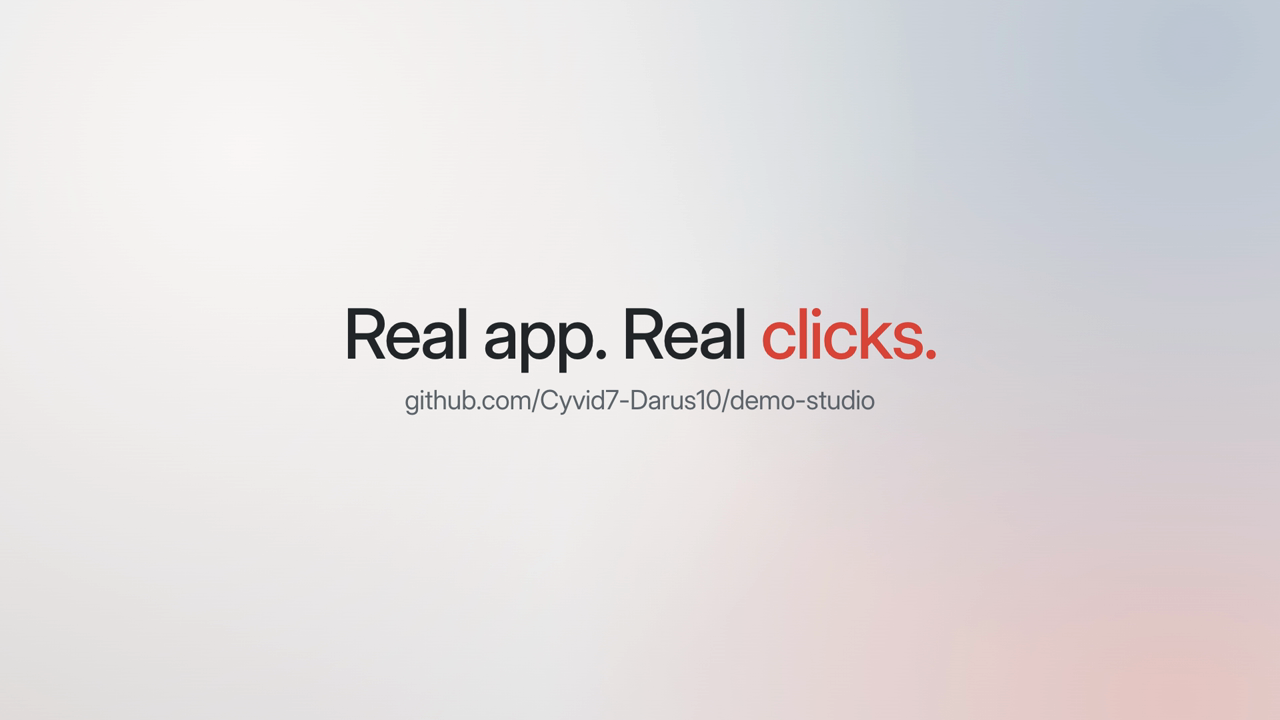
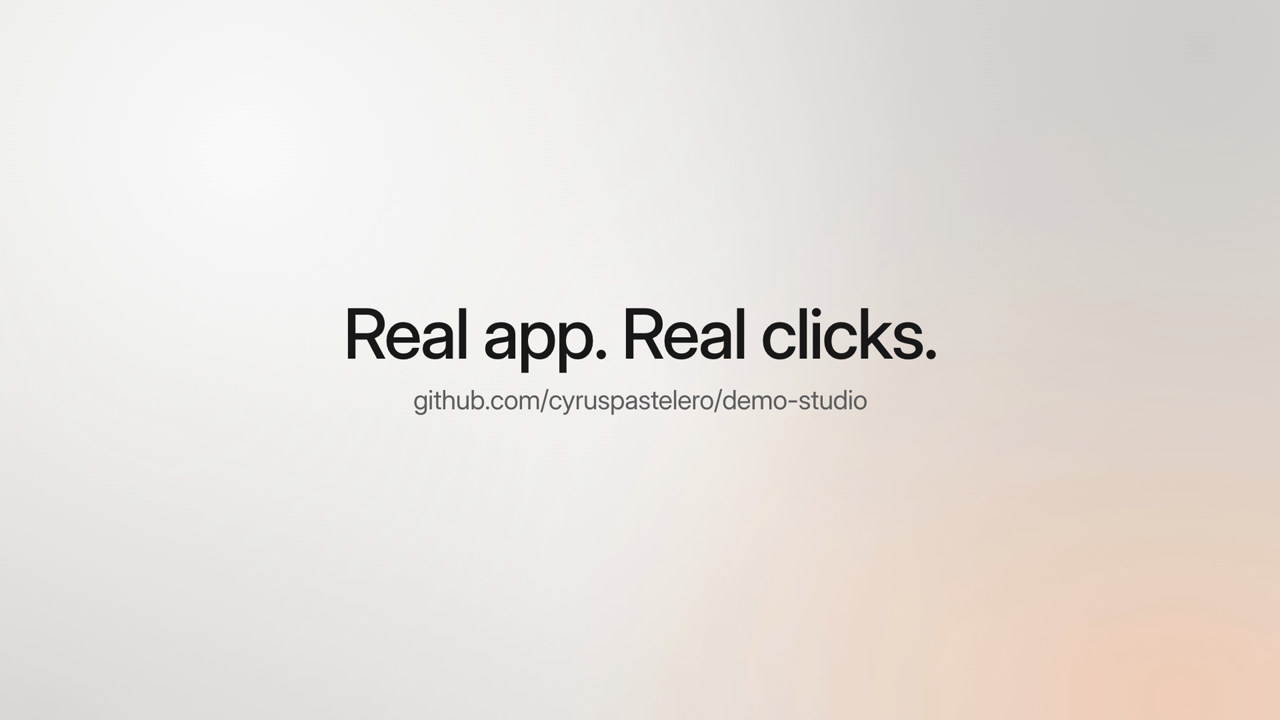
feat(looks): one-colour titles and an ember palette for the built-in looks
The engine coloured a card's accent word even when a look set accent_word false;
it now honours the flag. The built-in looks turn it off, house moves to warm greys
with an ember glow and sweep, midnight to graphite with an ember glow, paper and
mono get quieter titles, and all previews are re-rendered. The homepage intro keeps
a gap above its section list on short windows, and the link preview image matches
the new homepage.

Changed region(s): [[0.3125, 0.5194, 0.6875, 0.5806], [0.5938, 0.4278, 0.7188, 0.5194]]

diff --git a/site/index.html b/site/index.html
@@ -93,7 +93,8 @@ body[data-scene="7"] { --glow-x: 50%; --glow: 0.48; --haze: #625a54; }
 
 /* Layout: sticky intro, ruler, scrolling scenes */
 .page { display: grid; grid-template-columns: var(--aside) 20px minmax(0, 1fr); }
-.intro { position: sticky; top: 0; height: 100vh; display: flex; flex-direction: column; justify-content: space-between; padding: 64px 40px 40px; }
+.intro { position: sticky; top: 0; height: 100vh; display: flex; flex-direction: column; justify-content: space-between; gap: 48px; padding: 64px 40px 40px; overflow-y: auto; scrollbar-width: none; }
+.intro::-webkit-scrollbar { display: none; }
 .ruler { position: sticky; top: 0; height: 100vh;
   background: repeating-linear-gradient(180deg, rgba(255, 255, 255, 0.22) 0 1px, transparent 1px 26px) 4px 0 / 8px 100% no-repeat;
   border-left: 1px solid var(--rule); }
@@ -177,6 +178,15 @@ footer { position: relative; overflow: hidden; container-type: inline-size; marg
 @media (min-width: 1100px) {
   html { scroll-snap-type: y proximity; }
   .scene { scroll-snap-align: start; }
+}
+/* Short windows: tighten the intro so the headline, button and list all fit */
+@media (min-width: 1100px) and (max-height: 860px) {
+  .intro { padding: 40px 40px 28px; gap: 32px; }
+  h1 { font-size: 38px; }
+  .points { margin: 20px 0; gap: 8px; font-size: 14px; }
+  .toc h2 { margin-bottom: 8px; font-size: 16px; }
+  .toc a { padding: 5px 10px; font-size: 14px; }
+  .toc a[aria-current="true"]::before { top: 6px; bottom: 6px; }
 }
 @media (max-width: 1099px) {
   .page { display: block; }
@@ -272,15 +282,15 @@ footer { position: relative; overflow: hidden; container-type: inline-size; marg
       </header>
       <div class="viewer">
         <div class="switch" role="tablist" aria-label="Built-in looks">
-          <button type="button" role="tab" id="look-house" aria-controls="look-stage" aria-selected="true" data-src="img/looks/house-stage.png" data-alt="The todo sample in the House look" data-text="A floating window on soft pastels. The default.">House</button>
-          <button type="button" role="tab" id="look-midnight" aria-controls="look-stage" aria-selected="false" data-src="img/looks/midnight-stage.png" data-alt="The todo sample in the Midnight look" data-text="Dark and cinematic, for developer tools.">Midnight</button>
-          <button type="button" role="tab" id="look-paper" aria-controls="look-stage" aria-selected="false" data-src="img/looks/paper-stage.png" data-alt="The todo sample in the Paper look" data-text="Warm and editorial, with square corners.">Paper</button>
+          <button type="button" role="tab" id="look-house" aria-controls="look-stage" aria-selected="true" data-src="img/looks/house-stage.png" data-alt="The todo sample in the House look" data-text="A floating window on soft warm greys. The default.">House</button>
+          <button type="button" role="tab" id="look-midnight" aria-controls="look-stage" aria-selected="false" data-src="img/looks/midnight-stage.png" data-alt="The todo sample in the Midnight look" data-text="Graphite with an ember glow. Cinematic, for developer tools.">Midnight</button>
+          <button type="button" role="tab" id="look-paper" aria-controls="look-stage" aria-selected="false" data-src="img/looks/paper-stage.png" data-alt="The todo sample in the Paper look" data-text="Soft paper and square corners. Calm and editorial.">Paper</button>
           <button type="button" role="tab" id="look-mono" aria-controls="look-stage" aria-selected="false" data-src="img/looks/mono-stage.png" data-alt="The todo sample in the Mono look" data-text="Plain greys, so your product brings the colour.">Mono</button>
         </div>
         <figure class="frame stage" id="look-stage" role="tabpanel" aria-labelledby="look-house">
           <img src="img/looks/house-stage.png" alt="The todo sample in the House look" width="1280" height="720">
         </figure>
-        <p class="look-text" aria-live="polite">A floating window on soft pastels. The default.</p>
+        <p class="look-text" aria-live="polite">A floating window on soft warm greys. The default.</p>
       </div>
     </section>
 

diff --git a/scripts/keynote/spec.py b/scripts/keynote/spec.py
@@ -103,8 +103,8 @@ TAGLINE = {"size": 40, "weight": 400, "tracking": -0.5}        # T6
 TITLE_FONT = None                                              # T1: None = brand.font
 TITLE_WEIGHT = 500                                             # T2, T4, T5
 TITLE_REVEAL = "word-blur"                                     # T10: word-blur | fade | none
-ACCENT_WORD = True                                             # T9: one accent word per title
-INK, SECONDARY, TERTIARY, ACCENT = "#24272B", "#5F656D", "#6B7178", "#D9463B"  # T8
+ACCENT_WORD = False                                            # T9: titles stay one colour unless a look turns it on
+INK, SECONDARY, TERTIARY, ACCENT = "#1A1A1A", "#5E5E5E", "#6E6E6E", "#E8622A"  # T8
 WORD_SECONDS, WORD_BLUR, WORD_SHIFT = 0.50, 16, 26             # T10
 TITLE_STAGGER, SUBTITLE_STAGGER = 0.13, 0.05                   # T10
 SETTLE_SECONDS, SETTLE_EARLIEST, SUBTITLE_AFTER_SETTLE = 0.60, 1.0, 0.20  # T11, O2
@@ -115,13 +115,13 @@ CUT_STYLE = "inside-window"                                    # W7: clips cut i
 SHOT_MAX = 8.0                                                 # P2: longest uninterrupted window shot
 
 # 2.2 Background: base fill plus five radial fields (colour at the centre, transparent at 68%).
-BG_BASE = "#E3E3E4"                                            # B1
+BG_BASE = "#E4E3E1"                                            # B1
 BG_FIELDS = (                                                  # B2: colour, radius, x%, y%
-    ("#FAF9F7", 1500, 16, 20),
-    ("#BCC6D3F2", 1400, 92, 8),
-    ("#E6C4C2F2", 1400, 95, 100),
-    ("#DEDAD9", 1200, 5, 98),
-    ("#F1EFEDD9", 1100, 50, 50),
+    ("#FBFBFA", 1500, 16, 20),
+    ("#CFCDCAF2", 1400, 92, 8),
+    ("#F3CDB4E6", 1400, 95, 100),
+    ("#D8D6D3", 1200, 5, 98),
+    ("#F3F2F0D9", 1100, 50, 50),
 )
 BG_FADE_AT = 0.68
 # B4: each field drifts on a sine, amplitude 2 to 4% of the frame, 0.03 to 0.08 rad/s.
@@ -131,8 +131,8 @@ BG_KEYFRAME_SECONDS = 1.0       # rendered once a second, blended to 30 fps (mot
 # 2.10 End card and outro
 END_LOGO_WIDTH, END_LOGO_TOP = 128, 330                        # X1
 END_REVEAL_LEAD = 0.10                                         # X1, a word shows before it is spoken
-SWEEP_FROM, SWEEP_TO, SWEEP_SKEW, SWEEP_SECONDS = "#EF4849", "#F68C41", -4, 0.80  # X2
-DARK_FIELD = "#1B1D21"                                         # X2
+SWEEP_FROM, SWEEP_TO, SWEEP_SKEW, SWEEP_SECONDS = "#FF7A2E", "#FFB48A", -4, 0.80  # X2
+DARK_FIELD = "#121212"                                         # X2
 OUTRO_SECONDS = 5.0                                            # X3: sweep + lockup + >= 3 s hold
 LOCKUP_SECONDS = 0.70
 SILENT_TAIL = 3.0                                              # X3, A6

diff --git a/tests/test_keynote.py b/tests/test_keynote.py
@@ -210,7 +210,13 @@ class Pills(unittest.TestCase):
 class Titles(unittest.TestCase):
     CARD = Card(0, "card-intro", "hero", "Meet the team today", "Who builds it.", "team", "", False, 0, 90, 0, "")
 
+    def with_accent_word(self, on: bool) -> None:
+        saved = spec.ACCENT_WORD
+        spec.ACCENT_WORD = on
+        self.addCleanup(setattr, spec, "ACCENT_WORD", saved)
+
     def test_words_reveal_one_by_one_with_one_accent(self):
+        self.with_accent_word(True)
         state = title_card_state(self.CARD, 0.13, 3.0, 0.4)
         opacities = [w[2] for w in state["title"]["words"]]
         self.assertGreater(opacities[0], 0)
@@ -219,6 +225,11 @@ class Titles(unittest.TestCase):
         self.assertEqual(roles.count("accent"), 1)
         self.assertEqual(roles[2], "accent")
         self.assertEqual(state["title"]["words"][1][3], spec.WORD_BLUR)
+
+    def test_a_look_without_accent_words_draws_every_word_in_ink(self):
+        self.with_accent_word(False)
+        state = title_card_state(self.CARD, 2.0, 3.0, 0.4)
+        self.assertEqual({w[1] for w in state["title"]["words"]}, {"ink"})
 
     def test_hero_settles_to_0_52_and_the_subtitle_follows(self):
         before = title_card_state(self.CARD, 0.9, 3.0, 0.4)
@@ -333,7 +344,7 @@ class Background(unittest.TestCase):
 
     def test_brand_defaults_and_bad_colours(self):
         brand = load_brand(None)
-        self.assertEqual((brand.font, brand.accent, brand.base), ("inter", "#D9463B", "#E3E3E4"))
+        self.assertEqual((brand.font, brand.accent, brand.base), ("inter", "#E8622A", "#E4E3E1"))
         with self.assertRaises(PlanError) as caught:
             load_brand({"accent": "red; background:url(x)"})
         self.assertIn("brand.accent", str(caught.exception))
@@ -441,7 +452,10 @@ class Plans(unittest.TestCase):
         long_pill[0].pop("accent")
         warnings = "\n".join(self.plan(long_pill).warnings)
         self.assertIn("(C8)", warnings)
-        self.assertIn("(T9)", warnings)
+        self.assertNotIn("(T9)", warnings)  # the built-in looks draw titles in one colour
+        saved, spec.ACCENT_WORD = spec.ACCENT_WORD, True
+        self.addCleanup(setattr, spec, "ACCENT_WORD", saved)
+        self.assertIn("(T9)", "\n".join(self.plan(long_pill).warnings))
 
     def test_highlight_without_at_never_pairs_with_another_scenes_zoom(self):
         other = json.loads(json.dumps(self.SEQUENCE))

diff --git a/scripts/keynote/overlay.py b/scripts/keynote/overlay.py
@@ -31,7 +31,7 @@ def word_state(text: str, role: str, t: float, start: float, seconds: float, blu
 
 
 def words_of(text: str, accent: str, base_role: str) -> list[tuple[str, str]]:
-    marked = accent_index(text, accent) if accent else -1
+    marked = accent_index(text, accent) if accent and spec.ACCENT_WORD else -1  # T9: only when the look asks
     return [(w, "accent" if i == marked else base_role) for i, w in enumerate(text.split())]
 
 

diff --git a/docs/quality-bar.md b/docs/quality-bar.md
@@ -8,7 +8,7 @@ All sizes are px in a 1920x1080 frame. All times are seconds. "Ease-out cubic" m
 
 ## 1. The bar in one paragraph
 
-A finished cut opens directly on a title, with no black frame. It sits on a soft, slowly drifting, multi-colour pastel background. The product appears in one floating rounded window that is cropped tight to the UI that matters, so app text reads at about 20 px cap height. That window rises in from below frame. It stays put while clips cut inside it, and the whole window (not just its contents) eases up to 1.15x to point at something, then eases back. An outline in the product's own accent colour marks the exact UI element being talked about. Short pill callouts sit centred under the window: a person (avatar + "Name, role") or a statement in the product's accent colour. All type is one grotesk (Inter) at medium weight with tight tracking, and words blur in one by one. Narration runs under about 60% of the runtime, over a music bed 12 to 14 dB below it. The cut ends on a timed end card, a brand-gradient sweep, and a logo outro on dark.
+A finished cut opens directly on a title, with no black frame. It sits on a soft, slowly drifting background of warm greys with a faint ember glow. The product appears in one floating rounded window that is cropped tight to the UI that matters, so app text reads at about 20 px cap height. That window rises in from below frame. It stays put while clips cut inside it, and the whole window (not just its contents) eases up to 1.15x to point at something, then eases back. An outline in the product's own accent colour marks the exact UI element being talked about. Short pill callouts sit centred under the window: a person (avatar + "Name, role") or a statement in the product's accent colour. All type is one grotesk (Inter) at medium weight with tight tracking, in one colour, and words blur in one by one. Narration runs under about 60% of the runtime, over a music bed 12 to 14 dB below it. The cut ends on a timed end card, a brand-gradient sweep, and a logo outro on dark.
 
 ---
 
@@ -99,8 +99,8 @@ A finished cut opens directly on a title, with no black frame. It sits on a soft
 | T5 | End-card title | 500, 104 px, −3 px | "A" cap 76 px |
 | T6 | Subtitle / tagline | 400, 42 px (−0.6 px) or 40 px (−0.5 px) | "A" cap 31 px |
 | T7 | Person name / role (cast card) | 500 46 px −1 px / 400 30 px | caps 36 / 23 px |
-| T8 | Colours | Ink `#24272B` (measured `#202124`), secondary `#5F656D` (measured `#6A6C6D`), tertiary `#6B7178`, accent `#D9463B` (measured `#DC4334`) | |
-| T9 | Accent rule | Exactly **one** accent word per title or subtitle: the key noun ("Meet the **team**", "Who is on the **team?**"). Never whole lines, never two colours. | |
+| T8 | Colours | Ink `#1A1A1A`, secondary `#5E5E5E`, tertiary `#6E6E6E`, accent `#E8622A` (pills and boxes when the product sets no colour) | |
+| T9 | Accent rule | Titles are one colour in the built-in looks (`title.accent_word: false`); a card's `accent` is then ignored. A look that turns it on gets exactly **one** accent word per title or subtitle: the key noun ("Meet the **team**"). Never whole lines, never two colours. | |
 | T10 | Word reveal | Per word, 0.50 s ease-out cubic: opacity 0→1, blur 16→0 px, translateX +26→0. Stagger 0.13 s (titles), 0.05 s (subtitles). | |
 | T11 | Settle | 0.60 s ease-in-out cubic after the title lands (scale 1→0.52, up 70 px). The subtitle starts 0.20 s after the settle begins. | |
 | T12 | Card exit | 0.40 s ease-in-out cubic: opacity→0 and translateY −50 to −70 px, with blur | |
@@ -119,8 +119,8 @@ A finished cut opens directly on a title, with no black frame. It sits on a soft
 | # | Property | Bar |
 |---|---|---|
 | O1 | First frame | No black or blank frame. The hero title is already blurring in at frame 0 (fully in by 0.5 s). |
-| O2 | Opening card | Hero 132 px holds until about 1.0 s, settles (T11), then subtitle words reveal with one accent word, hold until about 3.3 s, and exit 0.4 s. Card length about 3.4 s. |
-| O3 | Cast card (when people appear) | Heading 72 px at top=250 with one accent word. Two 230 px circular avatars at x = 960 ± 280, top 410, shadow `0 30px 70px rgba(45,40,60,0.16), 0 8px 20px rgba(45,40,60,0.08)`. Avatars reveal at +0.4 / +0.6 s (scale 0.88→1, blur 12→0); names (46 px) and roles (30 px) follow 0.2 s later. About 2.6 s, after which the window rises over it (W6). |
+| O2 | Opening card | Hero 132 px holds until about 1.0 s, settles (T11), then subtitle words reveal, hold until about 3.3 s, and exit 0.4 s. Card length about 3.4 s. |
+| O3 | Cast card (when people appear) | Heading 72 px at top=250. Two 230 px circular avatars at x = 960 ± 280, top 410, shadow `0 30px 70px rgba(45,40,60,0.16), 0 8px 20px rgba(45,40,60,0.08)`. Avatars reveal at +0.4 / +0.6 s (scale 0.88→1, blur 12→0); names (46 px) and roles (30 px) follow 0.2 s later. About 2.6 s, after which the window rises over it (W6). |
 | O4 | First UI | ≤ 6.0 s into the cut |
 | O5 | Section card | A mid-cut question title ("Who is on the team?" form), 2.2 to 2.6 s, same reveal and exit |
 
@@ -129,7 +129,7 @@ A finished cut opens directly on a title, with no black frame. It sits on a soft
 | # | Property | Bar |
 |---|---|---|
 | X1 | End card | Brand mark about 128 px wide at top=330. Title 104 px with words revealed **about 0.1 s before narration says them**, then a 40 px tagline revealed the same way. About 7.9 s. |
-| X2 | Sweep | A brand-gradient band (`linear-gradient(100deg, #EF4849, #F68C41)`; measured `#FE5541` → `#FF8D3C`), skewed −4°, sweeps up over 0.8 s ease-in-out cubic and reveals a dark field `#1B1D21` |
+| X2 | Sweep | A brand-gradient band (`linear-gradient(100deg, #FF7A2E, #FFB48A)`), skewed −4°, sweeps up over 0.8 s ease-in-out cubic and reveals a dark field `#121212` |
 | X3 | Logo outro | The mark animates into a centred lockup (measured 700x100 at centre) and holds ≥ 3 s. Music fades out by the last 3 s, which are silent. |
 | X4 | Tail | From the last UI frame to the end ≈ 13 s (reference 82.6 → 95.9) |
 
@@ -190,9 +190,9 @@ Measured the same way on an earlier sample cut (37.5 s), built by `scripts/build
 | Highlights | None | 3 px box in the product's brand accent, radius 12, halo, eased in after a zoom | Missing |
 | Zoom model | Content-only zoompan inside a fixed frame. 1.5x, smoothstep 1.6 s. It crops arbitrarily (logo cut to "rkitekto") and leaves about 30% of the frame as empty grey sidebar (t=33 s). | Whole window 1.15x, 1.1 s ease-in-out sine, window stays in frame | Wrong model; too deep and too slow |
 | Window | Fixed 1600x900 at (160,44) showing the full 16:9 viewport at 0.83x. Body text cap ≈ 13 px at rest. | 1560x800 tight crop at 1.15x, body cap ≥ 18 px | UI about 35% too small; no crop |
-| Background | Flat `#F2F3F5` at every sample point | Five-field pastel drift (`#C2CAD6` blue, `#E5C9C8` pink, `#FAF7F6` glow) | No colour, no depth |
+| Background | Flat `#F2F3F5` at every sample point | Five-field drift of warm greys (`#CFCDCA` grey, `#F3CDB4` ember, `#FBFBFA` glow) | No colour, no depth |
 | Transitions | Every cut dips through an empty background (0.4 s out + 0.4 s in; frame at t=3.0 s is blank) | Window rise 0.7 s ease-out, cuts inside a persistent window, no blank frames | Dead air at every join |
-| Title cards | Static PNG, SF 600 112 to 124 px, 3% push-in, no word reveal, no accent word | Inter 500 132 px, per-word blur reveal, settle, one accent word | Static and generic |
+| Title cards | Static PNG, SF 600 112 to 124 px, 3% push-in, no word reveal, no accent word | Inter 500 132 px, per-word blur reveal, settle, one colour | Static and generic |
 | Opening | 3.0 s static card; first UI at 3.0 s after a blank dip | Animated hero + subtitle (+ cast card); first UI ≤ 6 s | No motion and no "who" |
 | Outro | Static 3.6 s card with a URL | Timed end card, gradient sweep, logo animation on dark, ≈ 13 s tail | No closing beat |
 | Cursor | Drawn pointing hand at 0.83x | Drawn pointing hand, scales with window, never a dot | Small at 0.83x |

diff --git a/docs/templates.md b/docs/templates.md
@@ -58,10 +58,10 @@ look is checked against its own numbers, not the house ones.
 
 | id | Look |
 | --- | --- |
-| `house` | The default: 1560x800 window with 22 px corners on a soft drifting pastel background, 1.15x whole-window zooms over 1.1 s (ease-in-out sine), product-coloured highlight boxes, white pills under the window, Inter titles that blur in word by word, a brand sweep and logo outro, -14 LUFS |
-| `midnight` | Cinematic and dark: a bigger window on a near-black field with one low glow, huge bold titles that fade up, a slow window entrance and a plain end card instead of the sweep. Tags: dark ui, developer tool, ai, premium, cinematic |
-| `paper` | Editorial and calm: a smaller window with wide margins and square print-like corners, the caption pill above it, thin titles that simply appear and a cream field. Tags: light ui, friendly, consumer, education, creative, docs |
-| `mono` | Full screen and fast: the app is as large as the engine draws it, high in the frame, for detail-heavy products, small quick zooms, bold titles with no animation, greys only, and a short plain end card instead of the sweep. Tags: light ui, fintech, b2b, dashboard, dense ui, minimal |
+| `house` | The default: 1560x800 window with 22 px corners on soft drifting warm greys with a faint ember glow, 1.15x whole-window zooms over 1.1 s (ease-in-out sine), product-coloured highlight boxes, white pills under the window, one-colour Inter titles that blur in word by word, an ember sweep and logo outro, -14 LUFS |
+| `midnight` | Cinematic and dark: a bigger window on graphite with one low ember glow, large one-colour titles that blur in, a slow window entrance and a plain end card instead of the sweep. Tags: dark ui, developer tool, ai, premium, cinematic |
+| `paper` | Editorial and calm: a smaller window with wide margins and square print-like corners, the caption pill above it, quiet one-colour titles that simply appear and a soft paper field. Tags: light ui, friendly, consumer, education, creative, docs |
+| `mono` | Full screen and fast: the app is as large as the engine draws it, high in the frame, for detail-heavy products, small quick zooms, one-colour bold titles with no animation, greys only, and a short plain end card instead of the sweep. Tags: light ui, fintech, b2b, dashboard, dense ui, minimal |
 
 ## Where templates live
 

diff --git a/look-templates/house/README.md b/look-templates/house/README.md
@@ -9,13 +9,13 @@ Built-in look template `house`: the demo-studio default, the look every demo get
 - Zoom: whole window to 1.15x over 1.1 s, ease-in-out sine
 - Highlight boxes: 3 px stroke, 12 px corners, 15x9 px padding, 7% fill and a 6 px halo at 10%, 0.17 s after a zoom lands
 - Pills: 68 px tall, fully round, centred at y 962, 30 px Inter Medium
-- Titles: Inter Display Medium 132 px, -4 tracking, words blur in one by one, one accent word
-- Background: base #E3E3E4 with five drifting pastel fields
-- Ending: 7.9 s end card, brand sweep, logo on #1B1D21
+- Titles: Inter Display Medium 132 px, -4 tracking, words blur in one by one, one colour
+- Background: base #E4E3E1 with five drifting warm-grey fields and one faint ember glow
+- Ending: 7.9 s end card, ember sweep, logo on #121212
 - Audio: -14 LUFS, true peak under -1 dBTP, music 13 dB under the voice, 3 s silent tail
 
-`brand.accent` is left out on purpose: without it, highlight boxes and pills are neutral ink and the
-title accent is #D9463B. A demo sets its product colour in demo.json `brand.accent`.
+`brand.accent` is left out on purpose: without it, highlight boxes and pills are neutral ink. Titles stay
+one colour (`title.accent_word: false`). A demo sets its product colour in demo.json `brand.accent`.
 
 Previews (`preview/01..06.png`): the todo sample in this look (title, window at rest, zoom with a
 highlight, pill, end card, outro on dark), rendered with `scripts/template-validate.py house

diff --git a/docs/how-it-works.md b/docs/how-it-works.md
@@ -13,7 +13,7 @@ records each scene, builds the cut, adds narration and music, and checks the res
 | Plan | BRIEF, RUN-SHEET (beats and exact on-camera text), SHOT-LIST, VOICEOVER draft, PREP checklist |
 | Raw takes | One clean clip per scene: 1920x1080, 30fps, H.264, crisp 2x capture, secrets blurred in the page, logged in `takes.csv` |
 | Review reel | The keeper takes joined uncut in story order, for the first review |
-| Keynote cut | Built to the [quality bar](quality-bar.md): footage cropped into a floating window on a soft pastel background, whole-window zooms, highlight boxes, callout pills, word-by-word Inter titles, end card and logo outro |
+| Keynote cut | Built to the [quality bar](quality-bar.md): footage cropped into a floating window on soft warm greys, whole-window zooms, highlight boxes, callout pills, word-by-word Inter titles, end card and logo outro |
 | Narrated cut | The keynote cut with the voiceover recorded and placed over a music bed 13 dB under it, -14 LUFS, true peak under -1 dBTP |
 | Promo cut | About 1:30, the story, as numbered clips plus a rough assembly |
 | How-to cut | About 3:00, the story plus setup steps and an edge case |

diff --git a/look-templates/midnight/README.md b/look-templates/midnight/README.md
@@ -1,11 +1,11 @@
 # Midnight
 
-Built-in look template `midnight`, made by hand for demo-studio (no reference video). Cinematic and dark: a bigger window on a near-black field with one low glow, huge bold titles that fade up, a slow window entrance and a plain end card instead of the sweep.
+Built-in look template `midnight`, made by hand for demo-studio (no reference video). Cinematic and dark: a bigger window on graphite with one low ember glow, large one-colour titles that blur in, a slow window entrance and a plain end card instead of the sweep.
 
 - Window: 1560x800 at (180, 90), 16 px corners, a deep shadow with a hairline edge so it lifts off the dark
 - Zooms: to 1.15x over 1.6 s with a long, soft ease
-- Titles: Geist Bold 176 px, -7 tracking, fade up; light ink on near-black
-- Background: near-black #07090D with faint navy and plum glows
+- Titles: Geist SemiBold 156 px, -6 tracking, words blur in; one colour, light ink on graphite
+- Background: graphite #0A0A0A with one low ember glow
 - Entrance: the window rises in over 1.2 s; ending: a plain 6 s end card, no sweep or logo outro
 - Audio: as the house look (-14 LUFS, music 13 dB under the voice)
 

diff --git a/look-templates/paper/README.md b/look-templates/paper/README.md
@@ -1,10 +1,10 @@
 # Paper
 
-Built-in look template `paper`, made by hand for demo-studio (no reference video). Editorial and calm: a smaller window with wide margins and square print-like corners, the caption pill above it, thin titles that simply appear and a cream field.
+Built-in look template `paper`, made by hand for demo-studio (no reference video). Editorial and calm: a smaller window with wide margins and square print-like corners, the caption pill above it, quiet one-colour titles that simply appear and a soft paper field.
 
 - Window: 1320x700 at (300, 170), smaller with wide cream margins, 4 px corners, a hairline and a soft warm shadow
 - Caption pill: above the window (centred at y 96), 60 px tall with 8 px corners
-- Titles: Inter Light 112 px, -2 tracking, no animation: they are simply there
+- Titles: Inter Regular 112 px, -3 tracking, one colour, no animation: they are simply there
 - Zooms: only to 1.08x over 1.6 s
 - Ending: a plain 7 s end card, no sweep
 - Audio: as the house look (-14 LUFS, music 13 dB under the voice)

diff --git a/CHANGELOG.md b/CHANGELOG.md
@@ -4,6 +4,11 @@ Notable changes, newest first. Versions follow semver as described in CONTRIBUTI
 
 ## Unreleased
 
+- **Looks refreshed**: the four built-in looks now draw titles in one colour (a card's `accent` is
+  ignored unless a look sets `title.accent_word: true`, which the engine now honours). `house` moves
+  to warm greys with an ember glow and an ember sweep, `midnight` to graphite with an ember glow and
+  blur-in titles, `paper` and `mono` get quieter title weights. Previews re-rendered.
+- **Link preview image** matches the new homepage.
 - **License is now MIT** (was Apache-2.0). NOTICE now only credits the bundled fonts.
 - **New homepage at https://demo-studio.pastelero.ph**: a sticky intro with a list that follows
   your scroll, one screen per feature, and the live editor. It is served from Vercel; GitHub Pages is retired.

diff --git a/look-templates/mono/README.md b/look-templates/mono/README.md
@@ -5,7 +5,7 @@ Built-in look template `mono`, made by hand for demo-studio (no reference video)
 - Window: 1620x800 at (150, 40), the largest the engine draws, high in the frame, square corners and a 1 px line instead of a shadow
 - Zooms: only to 1.06x over 0.7 s
 - Caption pill: a slim 52 px bar under the window with 6 px corners; boxes 2 px with 4 px corners
-- Titles: Geist Bold 150 px, -6 tracking, no animation
+- Titles: Geist SemiBold 140 px, -5 tracking, one colour, no animation
 - Ending: a short 4 s plain end card, no sweep or logo outro
 - Audio: as the house look (-14 LUFS, music 13 dB under the voice)
 
